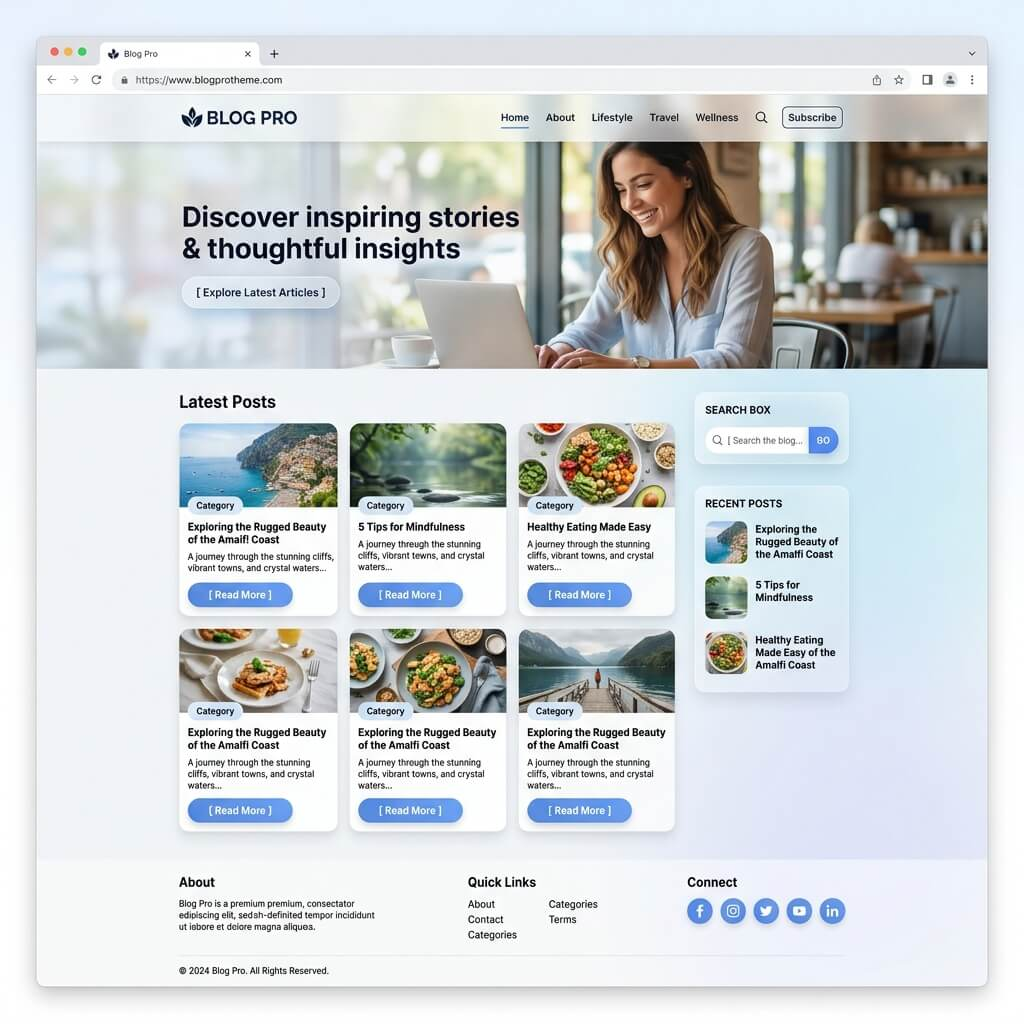
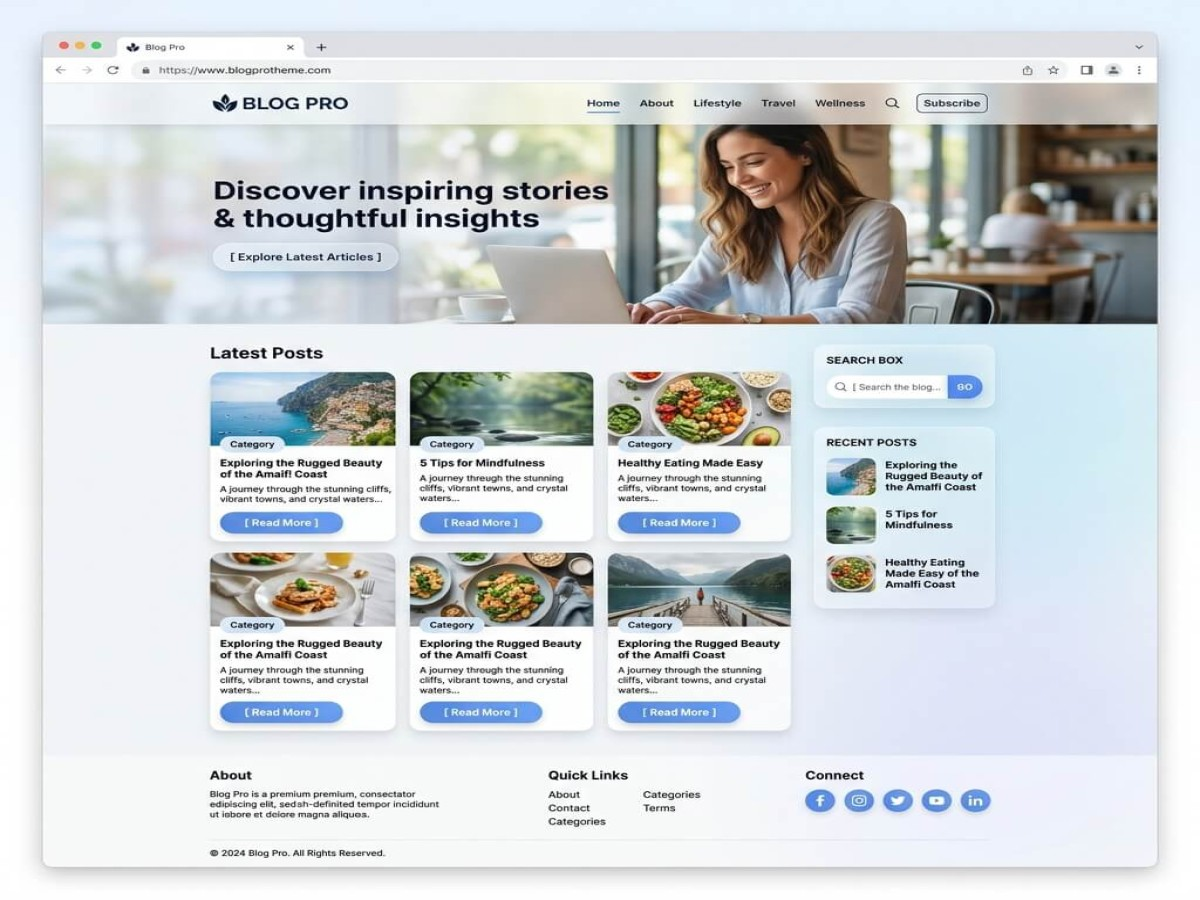
bug fix

diff --git a/build.js b/build.js
@@ -10,6 +10,18 @@ function log(section) {
 }
 
 const zipName = `blog-pro.zip`;
+
+// Any leftover build-staging folder (.blogpro-build-*) inside the theme must
+// never be copied — if a previous run crashed before cleanup, copying it
+// nests it one level deeper on every subsequent build (infinite recursion).
+const excludePatterns = [/^\.blogpro-build-/];
+
+function rmDeep(p) {
+  // Long-path (\\?\) form so Windows can delete trees deeper than MAX_PATH.
+  const lp = p.startsWith("\\\\?\\") ? p : "\\\\?\\" + path.resolve(p);
+  fs.rmSync(lp, { recursive: true, force: true });
+}
+
 // Create zip in the parent directory of the theme
 const zipPath = path.join(path.dirname(__dirname), zipName);
 
@@ -62,11 +74,26 @@ log("Bumping theme version");
 const newVersion = bumpVersion(styleCssPath);
 if (newVersion) console.log(`New version: ${newVersion}`);
 
-// 2. Create a temporary folder for the clean copy
-const tempDir = path.join(os.tmpdir(), `blogpro-build-${Date.now()}`);
-if (fs.existsSync(tempDir))
-  fs.rmSync(tempDir, { recursive: true, force: true });
-fs.mkdirSync(tempDir, { recursive: true });
+// 1b. Sweep out any leftover staging folder from a previous crashed build
+// (it would otherwise be copied into the zip recursively).
+for (const entry of fs.readdirSync(__dirname)) {
+  if (excludePatterns.some((re) => re.test(entry))) {
+    console.warn(`Removing leftover build staging folder: ${entry}`);
+    rmDeep(path.join(__dirname, entry));
+  }
+}
+
+// 2. Create a temporary folder for the clean copy — OUTSIDE the theme dir
+// (a temp dir inside the theme would be re-copied recursively into itself,
+// causing infinite nesting). Use os.tmpdir() and normalize to the long
+// path form so PowerShell's enumerated FullName matches the substring base.
+const tempDirShort = path.join(os.tmpdir(), `blogpro-build-${Date.now()}`);
+if (fs.existsSync(tempDirShort))
+  rmDeep(tempDirShort);
+fs.mkdirSync(tempDirShort, { recursive: true });
+// Resolve to long form (os.tmpdir() may return 8.3 short names like
+// RHYTHM~1 which mismatch the long names PowerShell enumerates).
+const tempDir = fs.realpathSync(tempDirShort);
 
 // 3. Define items that must be excluded from the archive
 const excludeSet = new Set([
@@ -92,6 +119,8 @@ function copyRecursive(src, dest) {
   const stats = fs.statSync(src);
   const base = path.basename(src);
   if (excludeSet.has(base)) return; // Skip excluded top‑level entries
+  if (excludePatterns.some((re) => re.test(base)))
+    return; // Skip leftover build-staging folders at any depth
   if (stats.isDirectory()) {
     fs.mkdirSync(dest, { recursive: true });
     for (const entry of fs.readdirSync(src)) {
@@ -109,21 +138,53 @@ const themeDir = path.join(tempDir, "blog-pro");
 fs.mkdirSync(themeDir, { recursive: true });
 copyRecursive(__dirname, themeDir);
 
-// 4. Create the zip archive (files under blog-pro/ wrapping folder)
+// 4. Create the zip archive (files under blog-pro/ wrapping folder).
+// Compress-Archive / tar include empty directory entries, which WordPress's
+// theme uploader rejects ("Could not copy file. blog-pro\assets\"). Build
+// the zip via System.IO.Compression with file entries only.
 log("Creating zip archive");
 try {
-  const zipCommand = `powershell -NoProfile -Command "Set-Location -LiteralPath '${tempDir}'; Compress-Archive -Path '${themeDir}' -DestinationPath '${zipPath}' -Force"`;
-  execSync(zipCommand, { stdio: "inherit" });
+  // Remove any previous zip first — ZipFile.Open with 'Create' throws
+  // IOException ("file already exists") otherwise.
+  fs.rmSync(zipPath, { force: true });
+  // Write the zip script to a temp .ps1 (avoids shell-escaping issues),
+  // then execute it. Zip contains FILE entries only — no empty directory
+  // entries, which WordPress's theme uploader rejects.
+  const zipScript = path.join(tempDir, "make-zip.ps1");
+  fs.writeFileSync(
+    zipScript,
+    [
+      "param($zipPath, $tempDir)",
+      "Add-Type -AssemblyName System.IO.Compression.FileSystem",
+      "$zip = [System.IO.Compression.ZipFile]::Open($zipPath, 'Create')",
+      "$src = Join-Path $tempDir 'blog-pro'",
+      "$tempFull = [System.IO.Path]::GetFullPath($tempDir)",
+      "Get-ChildItem -LiteralPath $src -Recurse -File | ForEach-Object {",
+      "  $full = [System.IO.Path]::GetFullPath($_.FullName)",
+      "  $rel = $full.Substring($tempFull.Length + 1).Replace('\\', '/')",
+      "  [System.IO.Compression.ZipFileExtensions]::CreateEntryFromFile($zip, $_.FullName, $rel) | Out-Null",
+      "}",
+      "$zip.Dispose()",
+      "",
+    ].join("\n")
+  );
+  const cmd = `powershell -NoProfile -ExecutionPolicy Bypass -File "${zipScript}" -zipPath "${zipPath}" -tempDir "${tempDir}"`;
+  execSync(cmd, { stdio: "inherit" });
+  // PowerShell doesn't propagate exceptions as exit codes — verify the zip
+  // actually exists and is non-empty, or treat it as a failure.
+  if (!fs.existsSync(zipPath) || fs.statSync(zipPath).size === 0) {
+    throw new Error("Zip script ran but produced no archive");
+  }
 } catch (err) {
   console.error("Zip creation failed:", err);
   // Restore style.css if version bump already happened
   fs.writeFileSync(styleCssPath, styleCssOriginal, "utf8");
-  fs.rmSync(tempDir, { recursive: true, force: true });
+  rmDeep(tempDir);
   process.exit(1);
 }
 
 // 5. Clean up the temporary folder
-fs.rmSync(tempDir, { recursive: true, force: true });
+rmDeep(tempDir);
 
 log("Build completed successfully");
 console.log(`Generated: ${zipPath}`);

diff --git a/templates/home-tourism.html b/templates/home-tourism.html
@@ -90,18 +90,17 @@
 
     <div class="hero-right">
       <div class="hero-mosaic">
-        <!-- Demo images via Unsplash -->
         <img
-          src="https://images.unsplash.com/photo-1506905925346-21bda4d32df4?w=700&q=80"
+          src="assets/img/demo-1.jpg
           alt="Mountain landscape"
           class="span2"
         />
         <img
-          src="https://images.unsplash.com/photo-1518548419970-58e3b4079ab2?w=400&q=80"
+          src="assets/img/demo-2.jpg
           alt="Santorini"
         />
         <img
-          src="https://images.unsplash.com/photo-1523531294919-4bcd7c65e216?w=400&q=80"
+          src="assets/img/demo-3.jpg
           alt="Marrakech"
         />
       </div>
@@ -347,7 +346,7 @@
         <!-- Card 1 — tall, real image -->
         <div class="dest-card">
           <img
-            src="https://images.unsplash.com/photo-1518548419970-58e3b4079ab2?w=800&q=80"
+            src="assets/img/demo-4.jpg
             alt="Santorini, Greece"
           />
           <div class="dest-overlay">
@@ -363,7 +362,7 @@
         <!-- Card 2 -->
         <div class="dest-card">
           <img
-            src="https://images.unsplash.com/photo-1528360983277-13d401cdc186?w=600&q=80"
+            src="assets/img/demo-5.jpg
             alt="Kyoto, Japan"
           />
           <div class="dest-overlay">
@@ -379,7 +378,7 @@
         <!-- Card 3 -->
         <div class="dest-card">
           <img
-            src="https://images.unsplash.com/photo-1501854140801-50d01698950b?w=600&q=80"
+            src="assets/img/demo-6.jpg
             alt="Patagonia"
           />
           <div class="dest-overlay">
@@ -395,7 +394,7 @@
         <!-- Card 4 -->
         <div class="dest-card">
           <img
-            src="https://images.unsplash.com/photo-1523531294919-4bcd7c65e216?w=600&q=80"
+            src="assets/img/demo-7.jpg
             alt="Marrakech, Morocco"
           />
           <div class="dest-overlay">
@@ -410,7 +409,7 @@
         <!-- Card 5 -->
         <div class="dest-card">
           <img
-            src="https://images.unsplash.com/photo-1493246507139-91e8fad9978e?w=600&q=80"
+            src="assets/img/demo-8.jpg
             alt="Norwegian Fjords"
           />
           <div class="dest-overlay">
@@ -556,12 +555,12 @@
       <div class="exp-visual">
         <img
           class="exp-main-img"
-          src="https://images.unsplash.com/photo-1464822759023-fed622ff2c3b?w=700&q=80"
+          src="assets/img/demo-9.jpg
           alt="Mountain experience"
         />
         <img
           class="exp-thumb"
-          src="https://images.unsplash.com/photo-1476514525535-07fb3b4ae5f1?w=400&q=80"
+          src="assets/img/demo-10.jpg
           alt="Travel moment"
         />
         <div class="exp-badge">
@@ -720,7 +719,7 @@
         <div class="pkg-card">
           <div class="pkg-img-wrap">
             <img
-              src="https://images.unsplash.com/photo-1507525428034-b723cf961d3e?w=600&q=80"
+              src="assets/img/demo-11.jpg
               alt="Greek Island"
             />
             <span class="pkg-badge">Best Seller</span>
@@ -793,7 +792,7 @@
         <div class="pkg-card">
           <div class="pkg-img-wrap">
             <img
-              src="https://images.unsplash.com/photo-1530789253388-582c481c54b0?w=600&q=80"
+              src="assets/img/demo-12.jpg
               alt="Safari"
             />
             <span class="pkg-badge" style="background: var(--sage)"
@@ -868,7 +867,7 @@
         <div class="pkg-card">
           <div class="pkg-img-wrap">
             <img
-              src="https://images.unsplash.com/photo-1542051841857-5f90071e7989?w=600&q=80"
+              src="assets/img/demo-13.jpg
               alt="Japan"
             />
             <span class="pkg-badge" style="background: var(--dusk)"
@@ -976,7 +975,7 @@
       <div class="guides-grid">
         <div class="guide-card">
           <img
-            src="https://images.unsplash.com/photo-1507003211169-0a1dd7228f2d?w=400&q=80"
+            src="assets/img/demo-14.jpg
             alt="Marco R."
           />
           <div class="guide-overlay">
@@ -991,7 +990,7 @@
         </div>
         <div class="guide-card">
           <img
-            src="https://images.unsplash.com/photo-1494790108377-be9c29b29330?w=400&q=80"
+            src="assets/img/demo-15.jpg
             alt="Aiko S."
           />
           <div class="guide-overlay">
@@ -1006,7 +1005,7 @@
         </div>
         <div class="guide-card">
           <img
-            src="https://images.unsplash.com/photo-1500648767791-00dcc994a43e?w=400&q=80"
+            src="assets/img/demo-16.jpg
             alt="Kwame A."
           />
           <div class="guide-overlay">
@@ -1021,7 +1020,7 @@
         </div>
         <div class="guide-card">
           <img
-            src="https://images.unsplash.com/photo-1487412720507-e7ab37603c6f?w=400&q=80"
+            src="assets/img/demo-17.jpg
             alt="Layla B."
           />
           <div class="guide-overlay">

diff --git a/style.css b/style.css
@@ -4,9 +4,12 @@ Theme URI: https://nhrepon.com/wordpress/blog-pro
 Author: Blog Pro
 Author URI: https://nhrepon.com
 Description: An ultra-lightweight, dependency-free blogging theme built for sub-second load times, built-in SEO (meta tags, JSON-LD schema, XML sitemap, robots.txt), and a custom REST API for posts. No plugins required.
-Version: 1.0.40
+Version: 1.0.61
 Requires at least: 6.0
 Requires PHP: 7.4
+Tested up to: 6.7
+License: GNU General Public License v2 or later
+License URI: https://www.gnu.org/licenses/gpl-2.0.html
 Text Domain: blog-pro
 Tags: blog, custom-menu, featured-images, translation-ready, threaded-comments, performance, seo
 */

diff --git a/inc/internal-linking.php b/inc/internal-linking.php
@@ -282,7 +282,7 @@ function blogpro_il_render_metabox( $post ) {
 		</label>
 	</p>
 	<p class="description"><?php esc_html_e( 'One rule per line: keyword or phrase => URL', 'blog-pro' ); ?></p>
-	<textarea name="blogpro_il_rules" rows="5" class="widefat" placeholder="wordpress seo => /wordpress-seo-guide/"><?php echo esc_textarea( (string) get_post_meta( $post->ID, '_blogpro_il_rules', true ) ); ?></textarea>
+	<textarea name="blogpro_il_rules" rows="5" class="widefat" placeholder="WordPress SEO => /wordpress-seo-guide/"><?php echo esc_textarea( (string) get_post_meta( $post->ID, '_blogpro_il_rules', true ) ); ?></textarea>
 	<?php
 }
 

diff --git a/inc/class-blogpro-nav-walker.php b/inc/class-blogpro-nav-walker.php
@@ -147,7 +147,7 @@ class Blogpro_Nav_Walker extends Walker_Nav_Menu {
 	 * Builds the mobile-only submenu toggle button (hidden on desktop).
 	 */
 	private function build_mobile_toggle() {
-		$button  = '<button class="submenu-toggle md:hidden p-2 ml-2 -mr-2" aria-expanded="false" aria-label="' . esc_attr__( 'Toggle submenu', 'blogpro' ) . '">';
+		$button  = '<button class="submenu-toggle md:hidden p-2 ml-2 -mr-2" aria-expanded="false" aria-label="' . esc_attr__( 'Toggle submenu', 'blog-pro' ) . '">';
 		$button .= $this->chevron_icon( 'h-5 w-5 text-gray-600' );
 		$button .= '</button>';
 

diff --git a/functions.php b/functions.php
@@ -2,6 +2,13 @@
 /**
  * Blog Pro theme bootstrap.
  * Loads all functionality modules. Kept plugin-free by design.
+ *
+ * Copyright (C) 2026 Nur Hossain Repon, nhrepon (https://nhrepon.com)
+ *
+ * This program is free software; you can redistribute it and/or modify it under
+ * the terms of the GNU General Public License as published by the Free Software
+ * Foundation; either version 2 of the License, or (at your option) any later
+ * version.
  */
 if ( ! defined( 'ABSPATH' ) ) exit;
 

diff --git a/inc/media-optimize.php b/inc/media-optimize.php
@@ -266,7 +266,7 @@ add_filter( 'intermediate_image_sizes', function ( $sizes ) {
 } );
 
 add_filter( 'image_size_names_choose', function( $sizes ) {
-	$sizes['blogpro-featured'] = __( 'Blog Pro Featured' );
+	$sizes['blogpro-featured'] = __( 'Blog Pro Featured', 'blog-pro' );
 	return $sizes;
 } );
 
